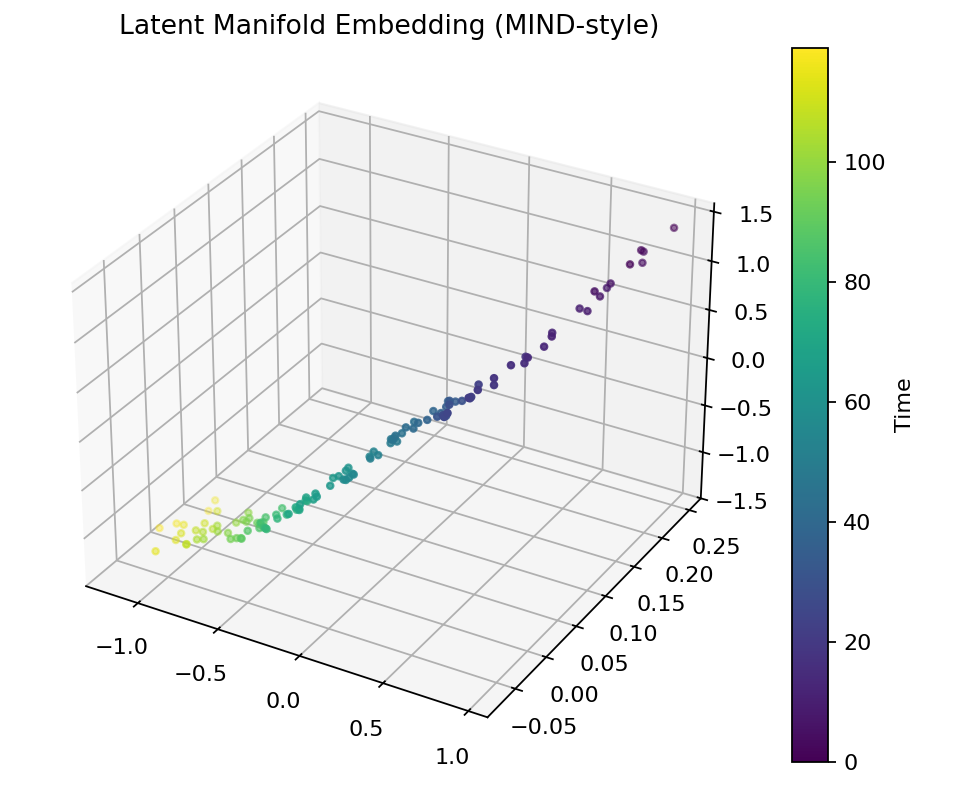
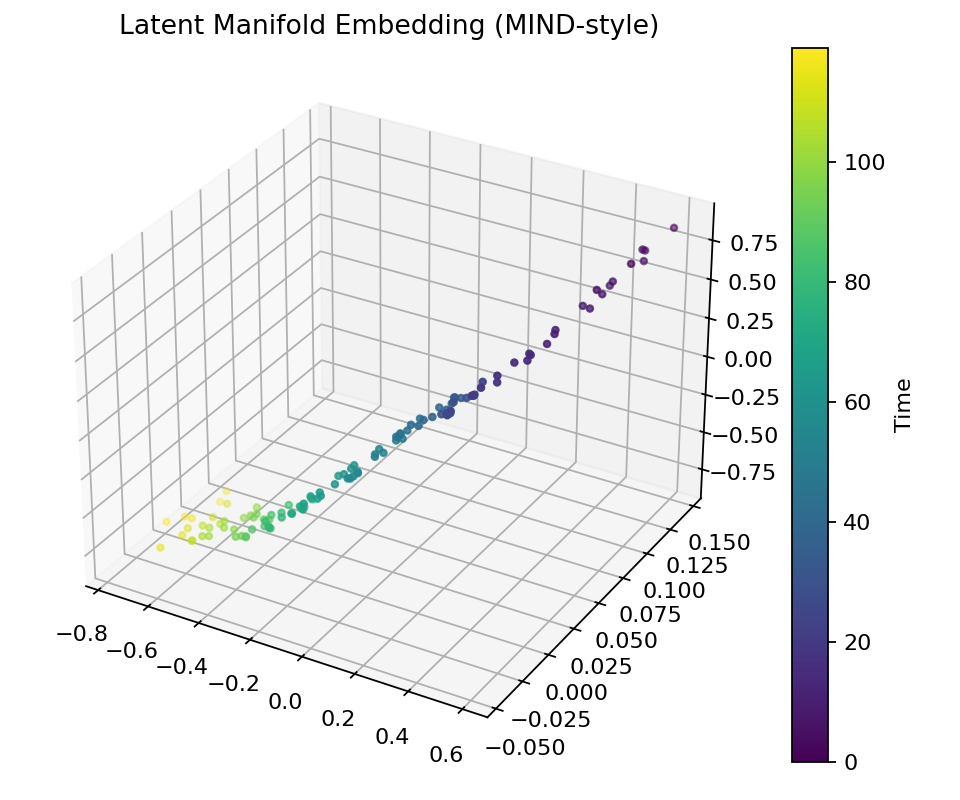
fascinating! a more local decoder (what I was thinking would work well, by doing end-to-end local linear reconstruction) is really struggling

diff --git a/src/v3_neural_vae.py b/src/v3_neural_vae.py
@@ -4,6 +4,7 @@
 # Written by Kathleen Higgins
 # Worked as of 2025-09-10
 # src/train_neural_ode_vae.py
+
 import os, math, argparse, datetime
 import numpy as np
 import torch
@@ -305,7 +306,134 @@ class LatentODEFunc(nn.Module):
         dz = self.f2(h)
         # simple residual-normalized field for stability
         return self.ln(dz)
-        
+
+class LocalAttentionDecoder(nn.Module):
+    """
+    A decoder that reconstructs each neuron using a weighted combination
+    of nearby neurons in latent space — approximating LLE-like locality.
+
+    For each neuron i:
+        x_i(t) = f( concat[z_t, sum_j w_ij * z_t] )
+    """
+    def __init__(self, latent_dim, n_neurons, k_neighbors=16, hidden=256):
+        super().__init__()
+        self.n_neurons = n_neurons
+        self.k = min(k_neighbors, n_neurons)
+
+        # Learnable embeddings to define similarity between neurons
+        self.emb = nn.Embedding(n_neurons, latent_dim)
+
+        # Decoder MLP
+        self.net = nn.Sequential(
+            nn.Linear(latent_dim * 2, hidden),
+            nn.ReLU(),
+            nn.Linear(hidden, hidden),
+            nn.ReLU(),
+            nn.Linear(hidden, 1)
+        )
+
+    def forward(self, z_traj):
+        """
+        z_traj: [B, L, D]
+        Output: [B, L, N]
+        """
+        B, L, D = z_traj.shape
+        device   = z_traj.device
+        N        = self.n_neurons
+
+        # --------------------------------------------------------
+        # 1. Compute pairwise similarity between neuron embeddings
+        # --------------------------------------------------------
+        emb = self.emb.weight                     # [N, D]
+        sim = emb @ emb.t()                       # [N, N]
+
+        # --------------------------------------------------------
+        # 2. Get top-k nearest neighbors for each neuron
+        # --------------------------------------------------------
+        _, idx = torch.topk(sim, k=self.k+1, dim=-1)
+        idx = idx[:, 1:]                           # remove self-neuron
+        # idx: [N, k]
+
+        # --------------------------------------------------------
+        # 3. Compute attention weights for neighbors
+        # --------------------------------------------------------
+        neigh_emb = emb[idx]                      # [N, k, D]
+
+        # attention score for neighbor j of neuron i
+        # dot product: (i·j)
+        attn = torch.softmax(
+            (emb.unsqueeze(1) * neigh_emb).sum(-1),   # [N, k]
+            dim=-1
+        )
+
+        # --------------------------------------------------------
+        # 4. Compute local latent: weighted sum of neighbor latents
+        # --------------------------------------------------------
+        # z_traj: [B, L, D]
+        # expand to: [B, L, 1, D] → [B, L, N, D]
+        z_expanded = z_traj[:, :, None, :].expand(B, L, N, D)
+
+        # build neighbor latent tensor: [B, L, N, k, D]
+        z_neigh = z_traj[:, :, None, None, :].expand(B, L, N, self.k, D)
+
+        # attn: [N, k] → expand: [1, 1, N, k, 1]
+        attn_expanded = attn[None, None, :, :, None]
+
+        # local aggregate: [B, L, N, D]
+        z_loc = (attn_expanded * z_neigh).sum(dim=3)
+
+        # --------------------------------------------------------
+        # 5. Decode each neuron: concat(global, local)
+        # --------------------------------------------------------
+        dec_in = torch.cat([z_expanded, z_loc], dim=-1)  # [B, L, N, 2D]
+
+        out = self.net(dec_in.reshape(B*L*N, 2*D)).view(B, L, N)
+        return out
+    
+class NeuronAwareDecoder(nn.Module):
+    def __init__(self, latent_dim, n_neurons, emb_dim=16, hidden=256):
+        """
+        latent_dim: dim of z_t
+        n_neurons:  number of output channels (N)
+        emb_dim:    size of per-neuron embedding vector
+        hidden:     hidden width of the MLP
+        """
+        super().__init__()
+        self.n_neurons = n_neurons
+        self.emb = nn.Embedding(n_neurons, emb_dim)
+
+        self.net = nn.Sequential(
+            nn.Linear(latent_dim + emb_dim, hidden),
+            nn.ReLU(),
+            nn.Linear(hidden, hidden),
+            nn.ReLU(),
+            nn.Linear(hidden, 1)  # predict one value per neuron
+        )
+
+    def forward(self, z_traj):  # z_traj: [B, L, D]
+        B, L, D = z_traj.shape
+        device = z_traj.device
+        N = self.n_neurons
+
+        # neuron indices 0..N-1
+        neuron_idx = torch.arange(N, device=device)         # [N]
+        neuron_emb = self.emb(neuron_idx)                   # [N, E]
+
+        # broadcast latent trajectory over neurons
+        # z_exp: [B, L, N, D]
+        z_exp = z_traj.unsqueeze(2).expand(B, L, N, D)
+
+        # broadcast embeddings over (B, L)
+        # e_exp: [B, L, N, E]
+        e_exp = neuron_emb.view(1, 1, N, -1).expand(B, L, N, neuron_emb.shape[1])
+
+        # combine and run through MLP
+        inp = torch.cat([z_exp, e_exp], dim=-1)             # [B, L, N, D+E]
+        inp = inp.reshape(B * L * N, D + neuron_emb.shape[1])
+
+        out = self.net(inp).view(B, L, N)                   # [B, L, N]
+        return out
+       
 class Decoder(nn.Module):
     def __init__(self, latent_dim, n_out):
         super().__init__()
@@ -322,11 +450,26 @@ class Decoder(nn.Module):
         return x.reshape(B, L, -1)
     
 class ODEVAE(nn.Module):
-    def __init__(self, n_neurons, latent_dim, num_experts):
+    def __init__(self, n_neurons, latent_dim, num_experts, decoder_type="mlp", k_neighbors=16):
         super().__init__()
         self.enc = Encoder(n_neurons, latent_dim)
-        self.odefunc = MoELatentODEFunc(latent_dim, num_experts=args.num_experts)
-        self.dec = Decoder(latent_dim, n_neurons)
+        self.odefunc = MoELatentODEFunc(latent_dim, num_experts=num_experts)
+
+        # select decoder
+        if decoder_type.lower() == "mlp":
+            self.dec = Decoder(latent_dim, n_neurons)
+
+        elif decoder_type.lower() == "neuronaware":
+            self.dec = NeuronAwareDecoder(latent_dim, n_neurons)
+
+        elif decoder_type.lower() == "localattn":
+            self.dec = LocalAttentionDecoder(
+                latent_dim=latent_dim,
+                n_neurons=n_neurons,
+                k_neighbors=k_neighbors
+            )
+        else:
+            raise ValueError(f"Unknown decoder_type: {decoder_type}")
 
     def reparam(self, mu, logvar):
         eps = torch.randn_like(mu)
@@ -478,7 +621,13 @@ def train(args):
     train_loader = td.DataLoader(SeqDataset(X_train), batch_size = args.batch_size, shuffle=True, drop_last = True)
     val_loader = td.DataLoader(SeqDataset(X_val), batch_size = args.batch_size, shuffle=False)
 
-    model = ODEVAE(n_neurons=N, latent_dim=args.latent_dim, num_experts = args.num_experts).to(device)
+    model = ODEVAE(
+    n_neurons=N,
+    latent_dim=args.latent_dim,
+    num_experts=args.num_experts,
+    decoder_type=args.decoder_type,
+    k_neighbors=getattr(args, "k_neighbors", 16),
+        ).to(device)
     opt = torch.optim.Adam(model.parameters(), lr=args.lr, weight_decay=args.weight_decay)
     tvec = torch.from_numpy(tvec_np).to(device)
 
